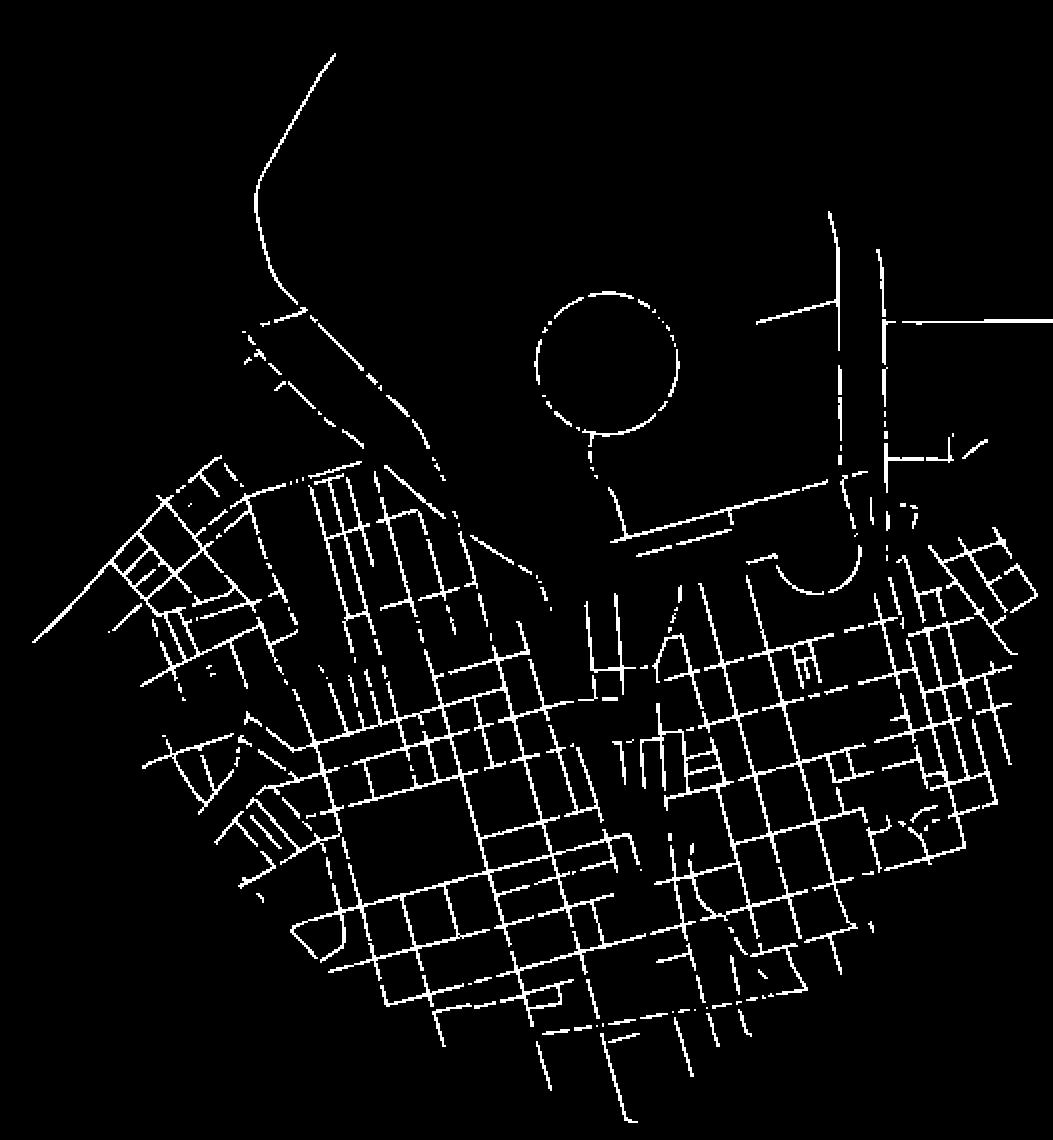
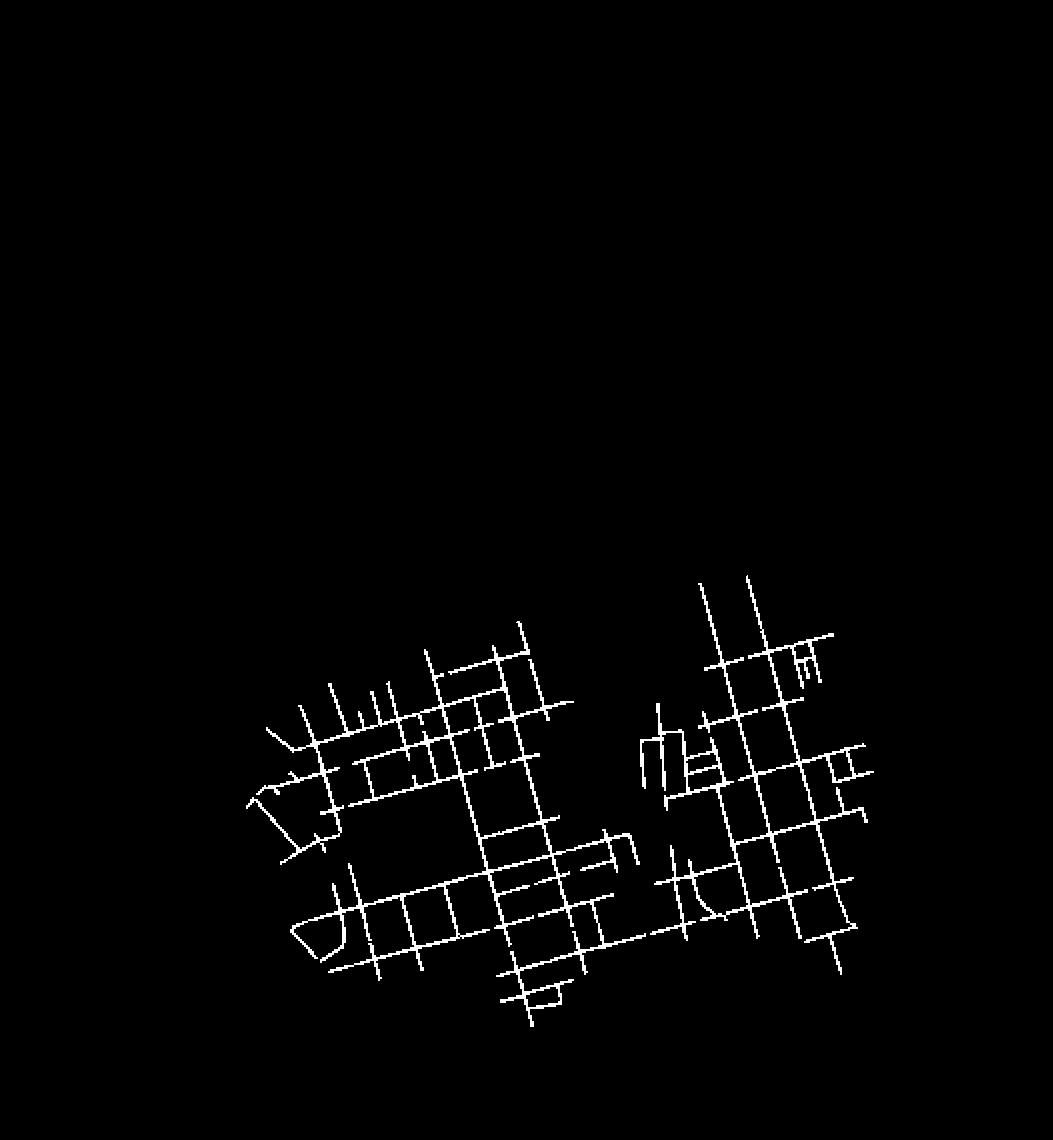
yay wiktor

diff --git a/intelligence.py b/intelligence.py
@@ -86,7 +86,7 @@ def detect_connected_components(*args,**kwargs):
     
     Code:
     -
-    - Gets the connected components of a sepciifc colour in an image
+    - Gets the connected components of a specific colour in an image
 """
     # gives use IMG variable
     IMG = args[0]
@@ -120,6 +120,7 @@ def detect_connected_components(*args,**kwargs):
                     for i in get_neighbors(q[0],q[1], IMG.shape):
                         # if the neighbour is a 1 and not marked mark the neighbour and add its x,y to the queueS
                         if IMG[i[0]][i[1]] == 1 and MARK[i[0]][i[1]] == 0:
+                                #sets mark to the number of the component to keep track of them
                                 MARK[i[0]][i[1]] = component_counter
                                 Q = np.append(Q,[i[0],i[1]])
                 # adds the number of pixels in the connected component to the list
@@ -217,12 +218,15 @@ def detect_connected_components_sorted(*args,**kwargs):
     print(fg.cyan+f"The biggest connected component is {biggest[0]} with {biggest[1]} pixels")
     print(f"The second biggest connected component is {second_biggest[0]} with {second_biggest[1]} pixels"+decor.reset)
 
-    return MARK
-    """
-    Remove everything else from mark
-    save mark
-    """
-    io.imsave("data//cc-top-2.jpg",MARK)
+    top2 = np.zeros((MARK.shape[0],MARK.shape[1]))
+
+    for x ,i in enumerate(MARK):
+        for y, j in enumerate(i):
+            if j == biggest[0]:
+                top2[x][y] = 1
+            if j == second_biggest[0]:
+                top2[x][y] = 1
+    io.imsave("data//cc-top-2.jpg",top2)
 
 #NOTE:docs and inline comments finished
 def bubble_sort(dictionary:dict)->tuple:
